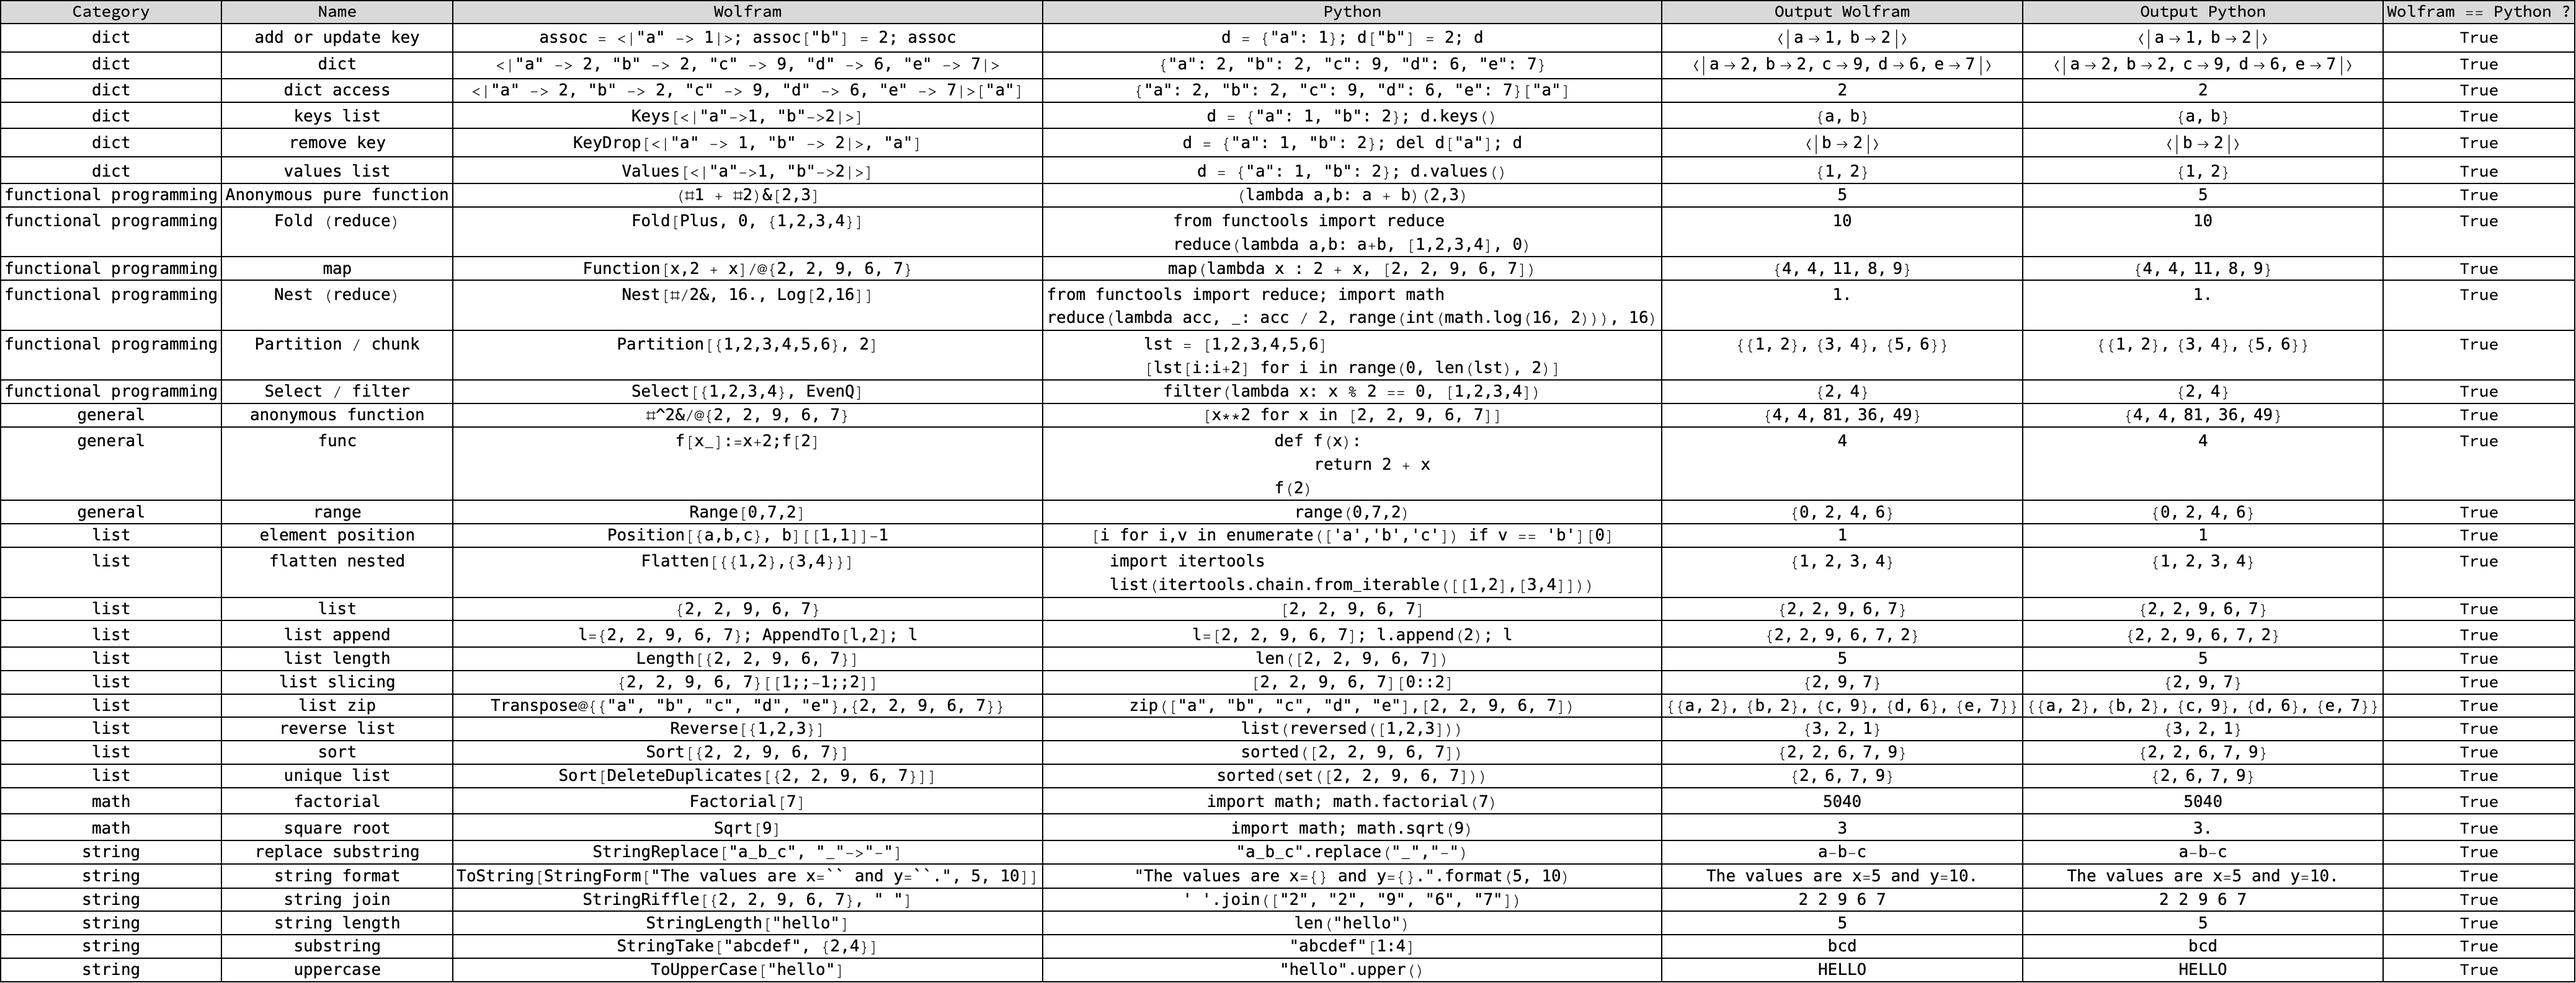
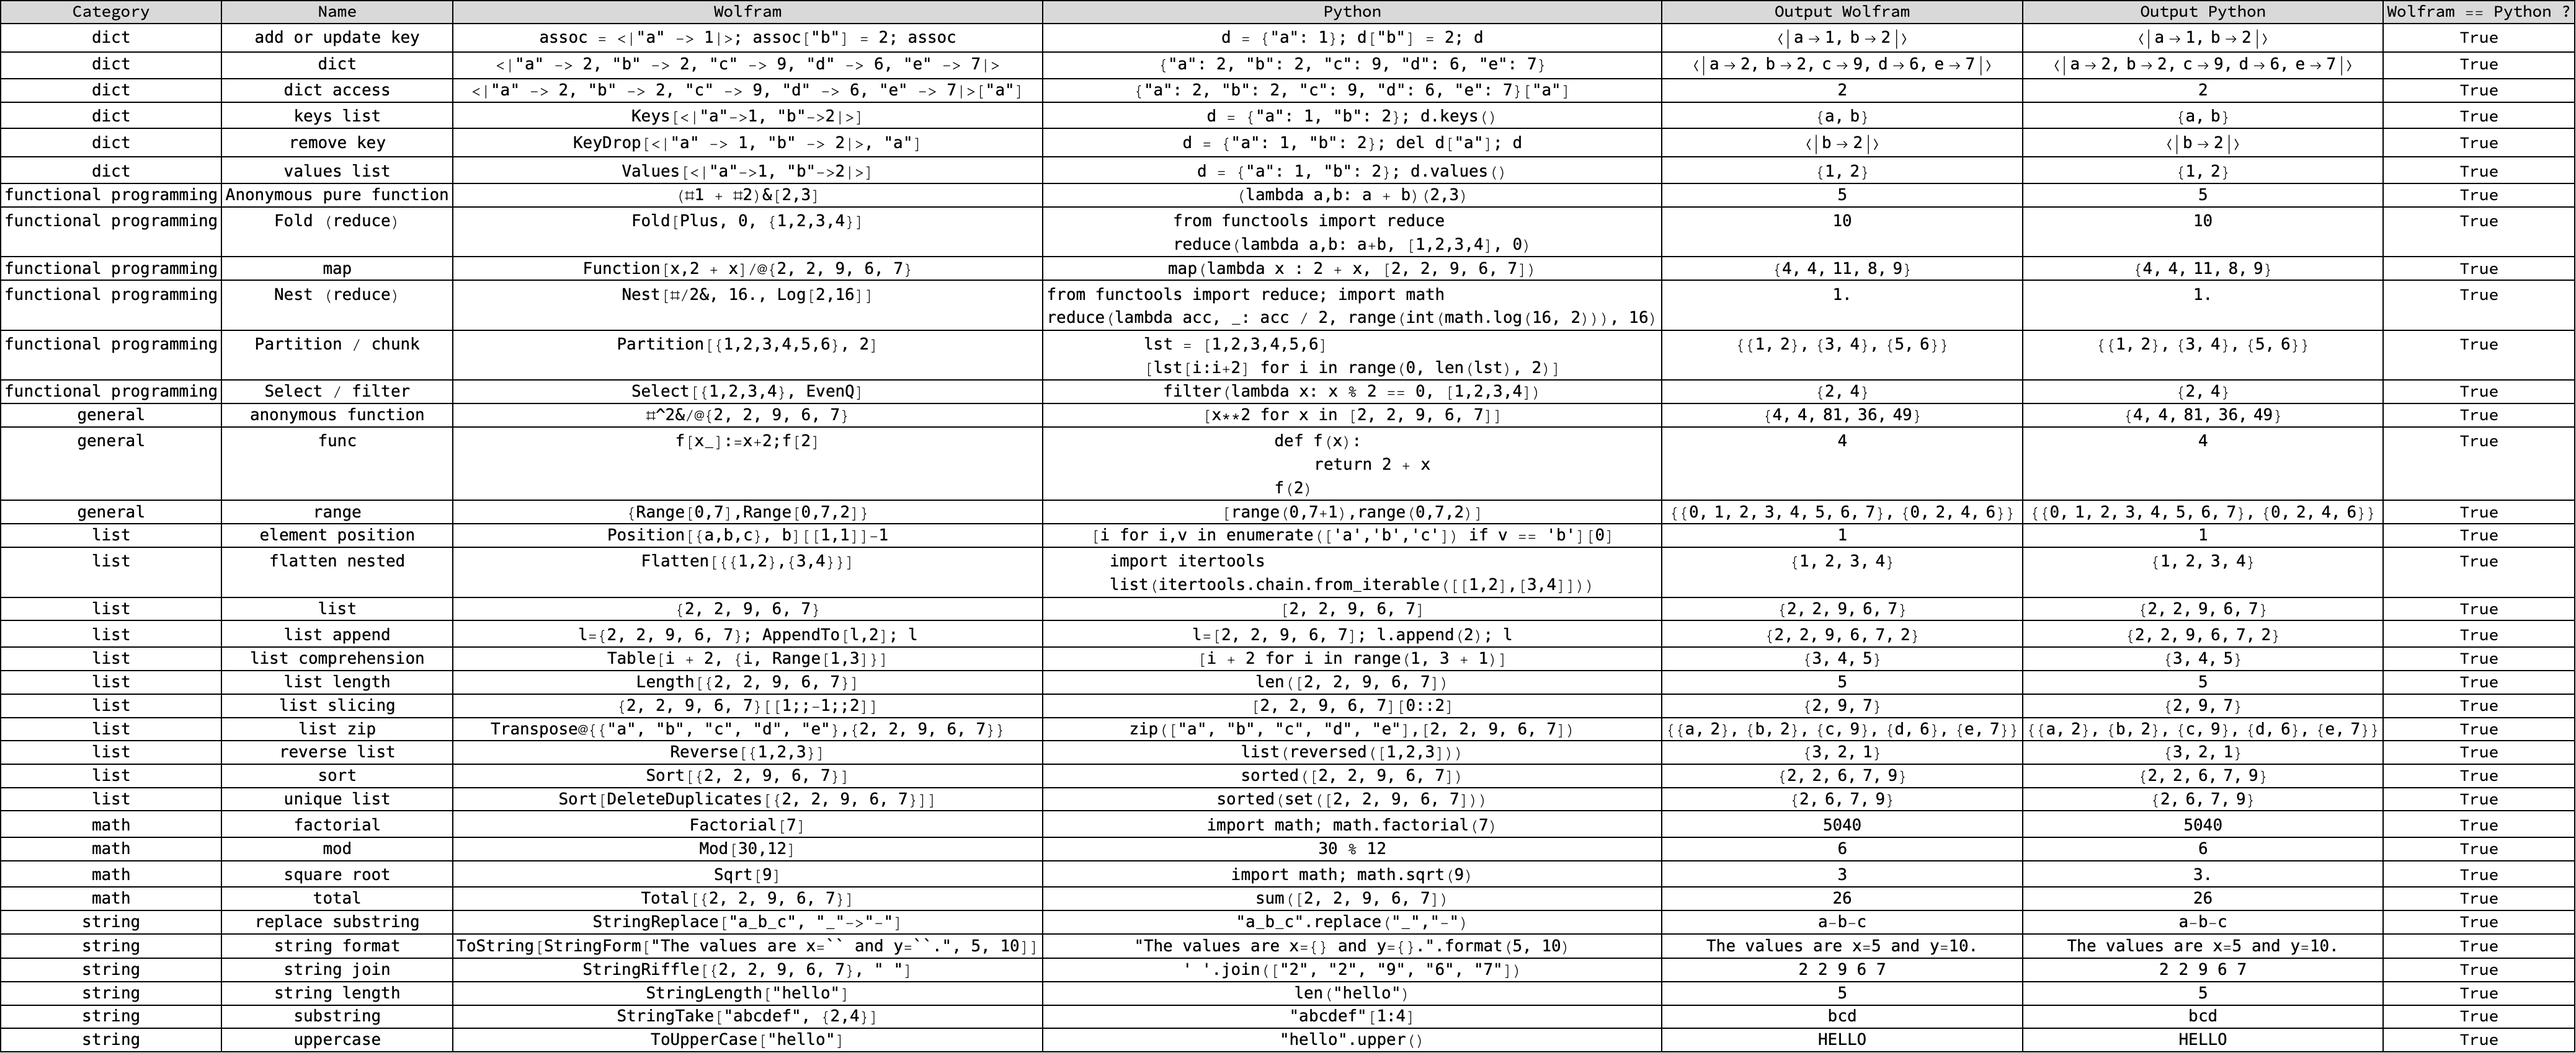
Update

Changed region(s): [[0.0, 0.0, 1.0, 1.0], [0.6834, 0.2472, 0.7455, 0.2781]]

diff --git a/README.md b/README.md
@@ -7,10 +7,10 @@ Welcome to **Wolfram ↔ Python**, a quick reference guide that mirrors common W
  Name | Wolfram | Python
 :---:|:---|:---
 anonymous function|<pre>#^2&/@{2, 2, 9, 6, 7}</pre>|<pre>[x**2 for x in [2, 2, 9, 6, 7]]</pre>
-func|<pre>f[x_]:=2 + x;f[2]</pre>|<pre>def f(x):<br/>    return 2 + x<br/>f(2)<br/></pre>
+func|<pre>f[x_]:=x+2;f[2]</pre>|<pre>def f(x):<br/>	return 2 + x<br/>f(2)<br/></pre>
 global|<pre>Names["Global`*"]</pre>|<pre>globals()</pre>
 print|<pre>Print["Hello world"]</pre>|<pre>print("Hello world")</pre>
-range|<pre>Range[0,7,2]</pre>|<pre>range(0,7,2)</pre>
+range|<pre>{Range[0,7],Range[0,7,2]}</pre>|<pre>[range(0,7+1),range(0,7,2)]</pre>
 
 ## Dict
 
@@ -43,6 +43,7 @@ element position|<pre>Position[{a,b,c}, b][[1,1]]-1</pre>|<pre>[i for i,v in enu
 flatten nested|<pre>Flatten[{{1,2},{3,4}}]</pre>|<pre>import itertools<br/>list(itertools.chain.from_iterable([[1,2],[3,4]]))<br/></pre>
 list|<pre>{2, 2, 9, 6, 7}</pre>|<pre>[2, 2, 9, 6, 7]</pre>
 list append|<pre>l={2, 2, 9, 6, 7}; AppendTo[l,2]; l</pre>|<pre>l=[2, 2, 9, 6, 7]; l.append(2); l</pre>
+list comprehension|<pre>Table[i + 2, {i, Range[1,3]}]</pre>|<pre>[i + 2 for i in range(1, 3 + 1)]</pre>
 list length|<pre>Length[{2, 2, 9, 6, 7}]</pre>|<pre>len([2, 2, 9, 6, 7])</pre>
 list slicing|<pre>{2, 2, 9, 6, 7}[[1;;-1;;2]]</pre>|<pre>[2, 2, 9, 6, 7][0::2]</pre>
 list zip|<pre>Transpose@{{"a", "b", "c", "d", "e"},{2, 2, 9, 6, 7}}</pre>|<pre>zip(["a", "b", "c", "d", "e"],[2, 2, 9, 6, 7])</pre>
@@ -56,7 +57,9 @@ unique list|<pre>Sort[DeleteDuplicates[{2, 2, 9, 6, 7}]]</pre>|<pre>sorted(set([
  Name | Wolfram | Python
 :---:|:---|:---
 factorial|<pre>Factorial[7]</pre>|<pre>import math; math.factorial(7)</pre>
+mod|<pre>Mod[30,12]</pre>|<pre>30 % 12</pre>
 square root|<pre>Sqrt[9]</pre>|<pre>import math; math.sqrt(9)</pre>
+total|<pre>Total[{2, 2, 9, 6, 7}]</pre>|<pre>sum([2, 2, 9, 6, 7])</pre>
 
 ## Procedural programming
 
